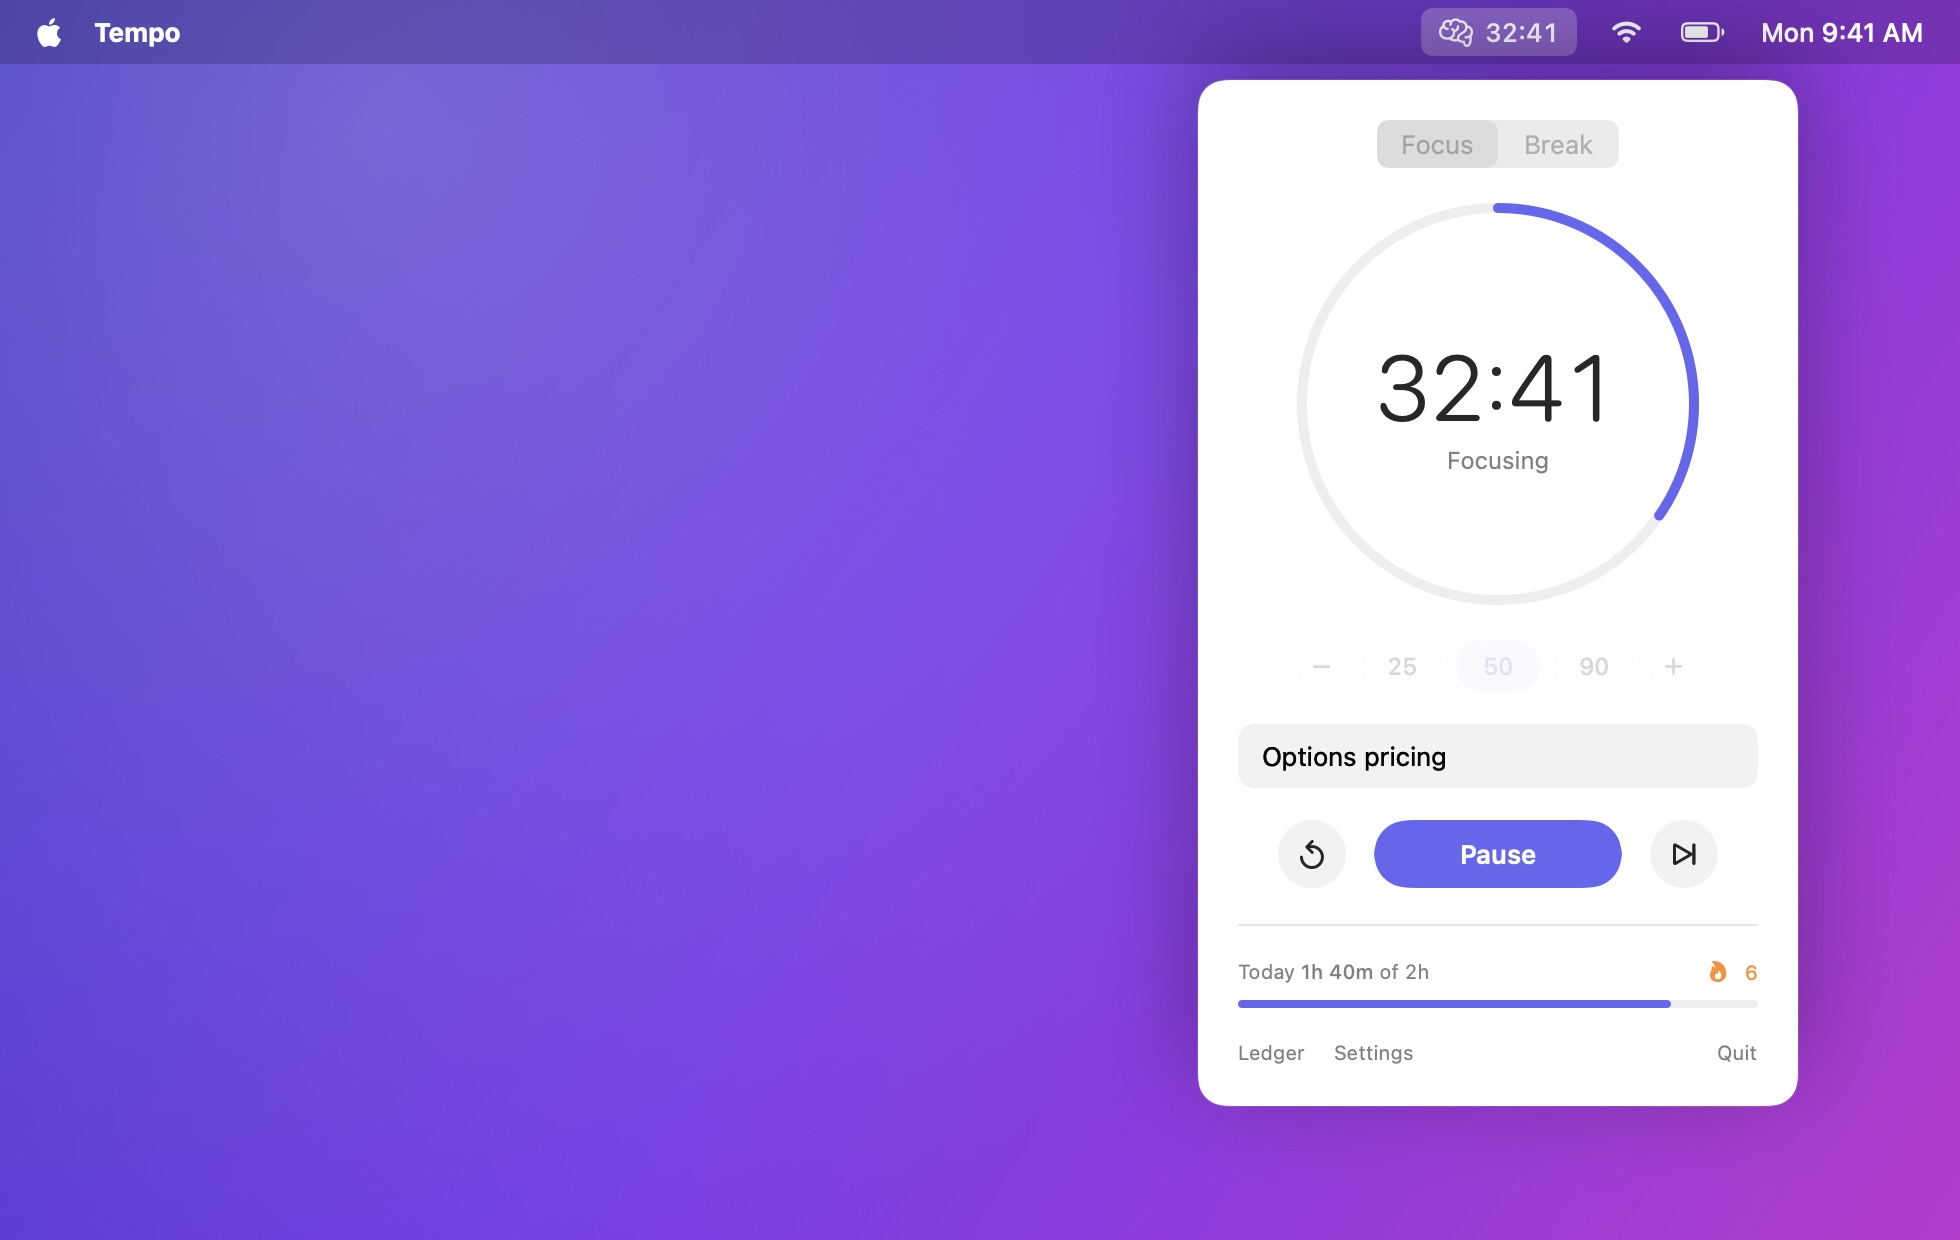
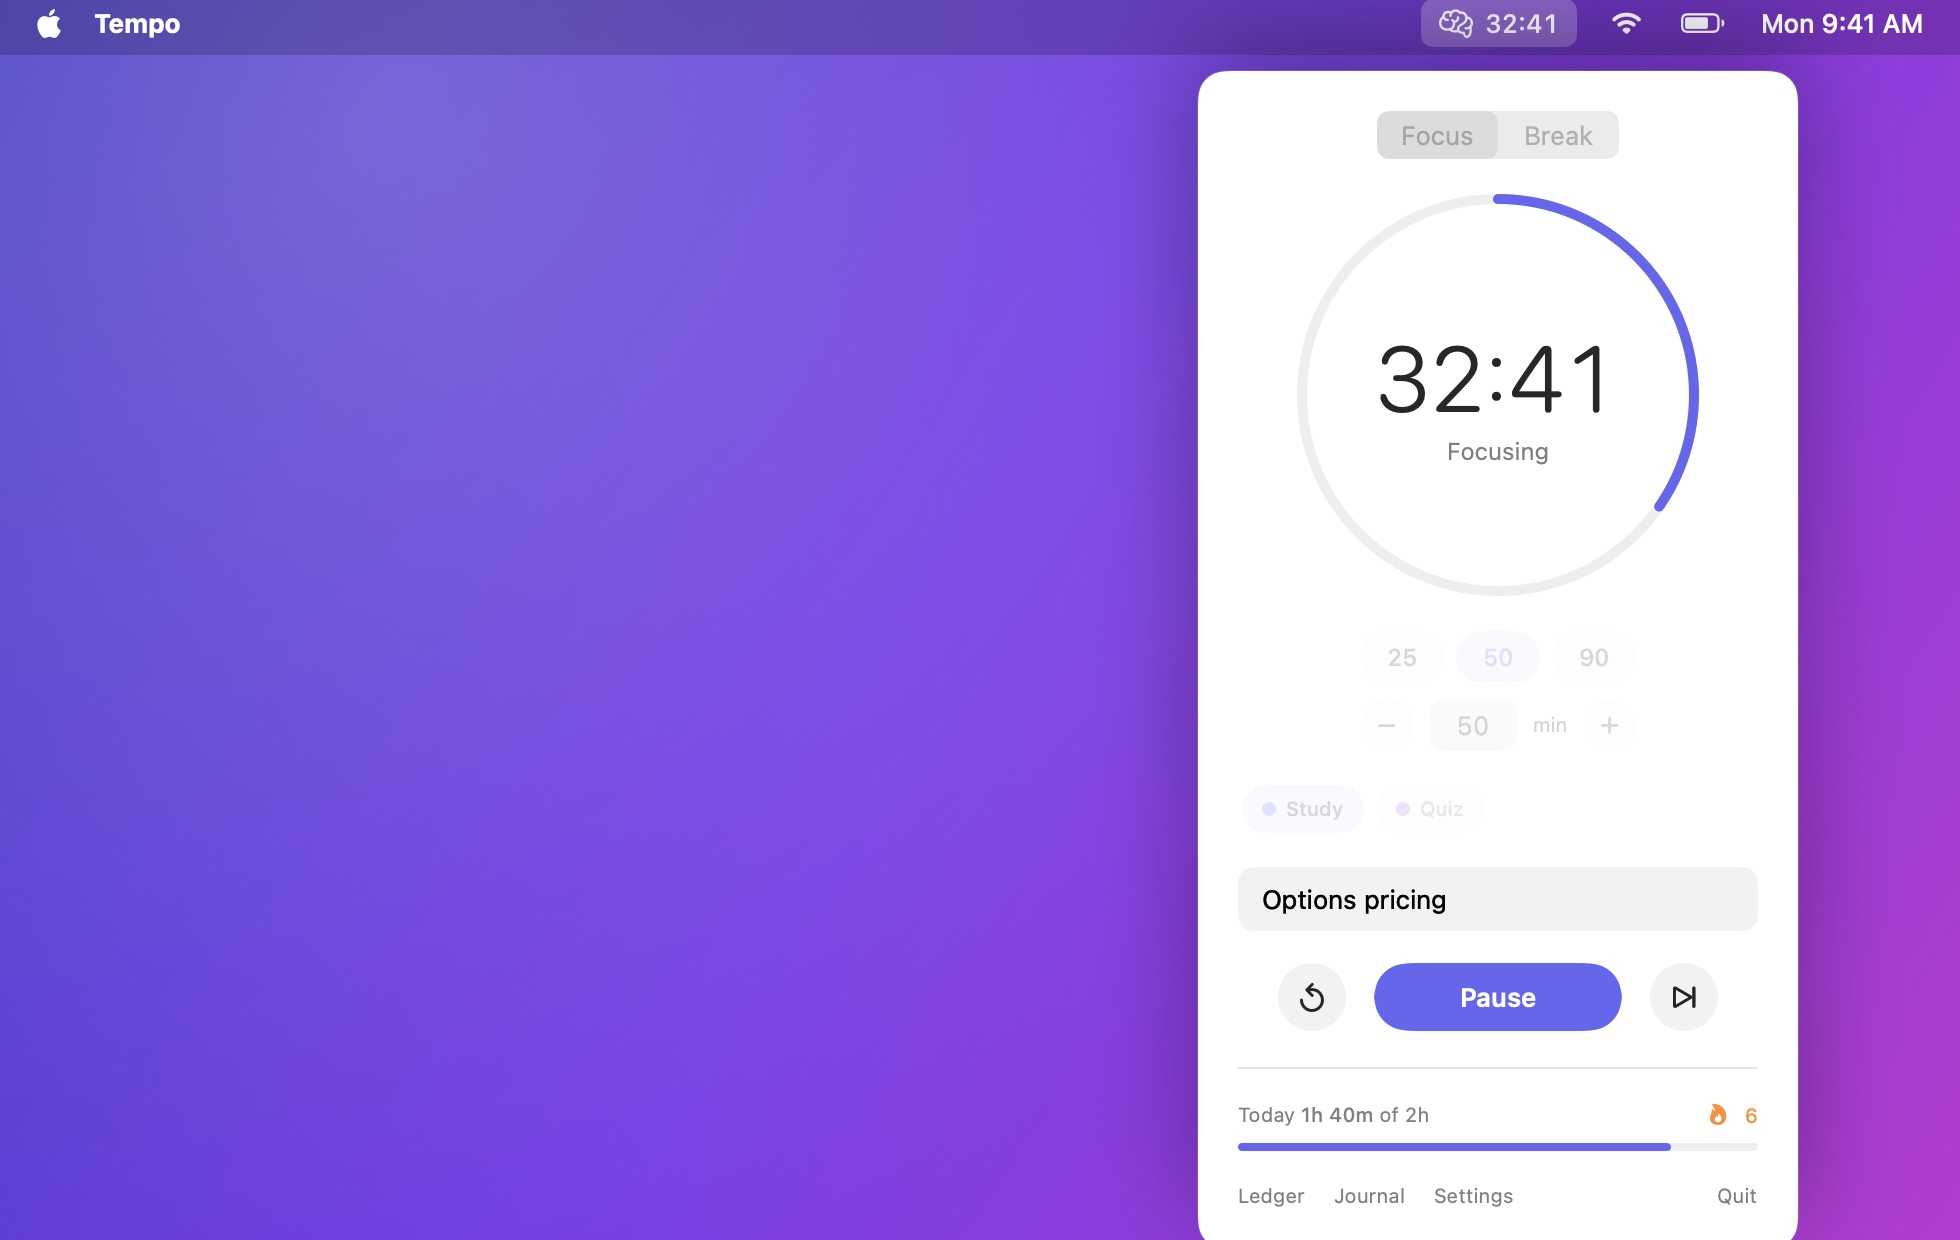
Show the journal in the README and fix an in-memory journal reload
The journal reload no longer clears entries when there is no file, which the screenshot tool relies on. Screenshots now include quiz sessions and a sample journal, and the README images are regenerated from the current UI.

diff --git a/tools/screenshots.swift b/tools/screenshots.swift
@@ -155,7 +155,8 @@ enum Screenshots {
                 let focus = back == 0 ? 50.0 : [25.0, 50.0, 50.0, 90.0][Int(rnd() * 4)]
                 let topic = topics[(back / 9 + b) % topics.count]
                 let end = clock.addingTimeInterval(focus * 60)
-                out.append(Session(start: clock, end: end, minutes: focus, phase: .focus, topic: topic, completed: back == 0 || rnd() > 0.1))
+                out.append(Session(start: clock, end: end, minutes: focus, phase: .focus, topic: topic,
+                                    completed: back == 0 || rnd() > 0.1, activity: b == 1 ? "quiz" : "study"))
                 let rest = focus >= 50 ? 10.0 : 5.0
                 out.append(Session(start: end, end: end.addingTimeInterval(rest * 60), minutes: rest, phase: .rest, topic: "", completed: true))
                 clock = end.addingTimeInterval((rest + 20) * 60)
@@ -172,6 +173,28 @@ enum Screenshots {
         m.focusMinutes = 50
         m.restMinutes = 10
         m.settings.dailyGoalMinutes = 120
+
+        // Sample activities and a journal, so the activity chips, habits and journal have something to show.
+        let quiz = m.activities.add(name: "Quiz", kind: .focus)
+        m.activities.update(quiz.id) { $0.color = "violet"; $0.checklist = ["MCQ 1-20", "Review misses", "Flashcards"] }
+        m.activities.update("study") { $0.checklist = ["Read the chapter", "Problem set"] }
+        let calendarNow = Calendar.current
+        let todayStart = calendarNow.startOfDay(for: Date())
+        for back in 0..<60 {
+            let day = DayKey.string(calendarNow.date(byAdding: .day, value: -back, to: todayStart)!)
+            let quizTexts = ["MCQ 1-20", "Review misses", "Flashcards"]
+            let quizItems = quizTexts.enumerated().map { index, text in
+                ChecklistItem(text: text, done: (back * 31 + index * 17) % 7 < 5)
+            }
+            JournalStore.shared.save(JournalEntry(date: day, activity: quiz.id, items: quizItems,
+                                                  note: back == 0 ? "Mixed set, two misses on Greeks" : ""))
+            if back % 3 != 2 {
+                let studyItems = ["Read the chapter", "Problem set"].enumerated().map { index, text in
+                    ChecklistItem(text: text, done: (back + index) % 4 != 0)
+                }
+                JournalStore.shared.save(JournalEntry(date: day, activity: "study", items: studyItems, note: ""))
+            }
+        }
 
         func panel(dark: Bool, _ setup: @escaping () -> Void) -> NSImage {
             snapshot(PanelView(m: m, store: m.store, settings: m.settings, bridge: m.bridge, activities: m.activities)
@@ -198,5 +221,7 @@ enum Screenshots {
         save(snapshot(LedgerView(store: m.store, settings: m.settings, activities: m.activities, height: 1010), dark: false, settle: 2.0), "ledger.png")
         save(snapshot(LedgerView(store: m.store, settings: m.settings, activities: m.activities, height: 1010), dark: true, settle: 2.0), "ledger-dark.png")
         save(snapshot(SettingsView(m: m, settings: m.settings, bridge: m.bridge, activities: m.activities, height: 1000), dark: false, settle: 1.0), "settings.png")
+        save(snapshot(JournalView(journal: JournalStore.shared, activities: m.activities), dark: false, settle: 1.0), "journal.png")
+        save(snapshot(JournalView(journal: JournalStore.shared, activities: m.activities), dark: true, settle: 1.0), "journal-dark.png")
     }
 }

diff --git a/Sources/JournalStore.swift b/Sources/JournalStore.swift
@@ -55,7 +55,9 @@ final class JournalStore: ObservableObject {
     }
 
     func reload() {
-        guard let url, let text = try? String(contentsOf: url, encoding: .utf8) else {
+        // Without a file (the screenshot tool) the in-memory entries are the journal, so leave them alone.
+        guard let url else { return }
+        guard let text = try? String(contentsOf: url, encoding: .utf8) else {
             entries = [:]
             return
         }

diff --git a/README.md b/README.md
@@ -212,6 +212,8 @@ Removing an activity never changes past sessions: they keep its name in the ledg
 
 The **Journal** (`tempo://journal`, or the button in the panel) shows each activity's checklist for the day you pick. Tick items off, add one-off items, and leave a note. Each activity also gets a progress grid, one square per day, shaded by how much of its checklist you finished.
 
+![The journal: today's checklists for each activity, with a progress grid below](docs/journal.png)
+
 ## Letting an AI assistant log for you
 
 `tools/tempo_mcp.py` is a [Model Context Protocol](https://modelcontextprotocol.io) server with no dependencies. It reads and writes the same files as the app, so anything it logs appears in the ledger and journal once Tempo is active again.
